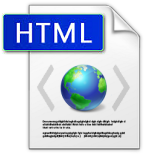
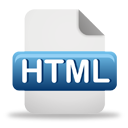
Give consistent look to images

diff --git a/src/test/java/spec/concordion/ext/storyboard/AcceptanceTest.java b/src/test/java/spec/concordion/ext/storyboard/AcceptanceTest.java
@@ -11,6 +11,7 @@ import javax.xml.transform.stream.StreamResult;
 import javax.xml.transform.stream.StreamSource;
 
 import org.concordion.api.Resource;
+import org.concordion.ext.storyboard.StockCardImage;
 import org.concordion.integration.junit4.ConcordionRunner;
 import org.junit.runner.RunWith;
 
@@ -27,20 +28,17 @@ public abstract class AcceptanceTest {
 	}
 	
     protected TestRig getTestRig() throws InstantiationException, IllegalAccessException {
-    	 return new TestRig()
+    	TestRig testrig = new TestRig()
 	        .withFixture(this.getClass().newInstance())
-	        .withResource(new Resource("/org/concordion/ext/storyboard/storyboard.css"), "")
+    	    .withResource(new Resource("/org/concordion/ext/storyboard/storyboard.css"), "")
 	        .withResource(new Resource("/org/concordion/ext/storyboard/storyboard.js"), "")
-	        .withResource(new Resource("/org/concordion/ext/storyboard/email.png"), "")
-	        .withResource(new Resource("/org/concordion/ext/storyboard/html.png"), "")
-	        .withResource(new Resource("/org/concordion/ext/storyboard/text.png"), "")
-	        .withResource(new Resource("/org/concordion/ext/storyboard/xmlrequest.png"), "")
-	        .withResource(new Resource("/org/concordion/ext/storyboard/xmlresponse.png"), "")
-	        .withResource(new Resource("/org/concordion/ext/storyboard/expand.png"), "")
-	        .withResource(new Resource("/org/concordion/ext/storyboard/collapse.png"), "")
-	        .withResource(new Resource("/org/concordion/ext/storyboard/complete.png"), "")
-	        .withResource(new Resource("/org/concordion/ext/storyboard/error.png"), "")
 	        .withOutputStreamer(streamer);
+    	    
+    	for (StockCardImage stockImage : StockCardImage.values()) {
+    		testrig.withResource(new Resource("/org/concordion/ext/storyboard" + stockImage.toString()), "");
+    	}
+    	
+    	return testrig;
     }
     
     protected FileOutputStreamer getStreamer() {

diff --git a/src/main/java/org/concordion/ext/StoryboardExtension.java b/src/main/java/org/concordion/ext/StoryboardExtension.java
@@ -46,12 +46,10 @@ public class StoryboardExtension implements ConcordionExtension {
 
 		concordionExtender.withLinkedCSS(path + "/storyboard.css", new Resource("/storyboard.css"));
 		concordionExtender.withLinkedJavaScript(path + "/storyboard.js", new Resource("/storyboard.js"));
-		concordionExtender.withResource(path + StockCardImage.EMAIL, StockCardImage.EMAIL.getResource());
-		concordionExtender.withResource(path + StockCardImage.HTML, StockCardImage.HTML.getResource());
-		concordionExtender.withResource(path + StockCardImage.TEXT, StockCardImage.TEXT.getResource());		
-		concordionExtender.withResource(path + StockCardImage.XML_REQUEST, StockCardImage.XML_REQUEST.getResource());
-		concordionExtender.withResource(path + StockCardImage.XML_RESPONSE, StockCardImage.XML_RESPONSE.getResource());
-		concordionExtender.withResource(path + StockCardImage.ERROR, StockCardImage.ERROR.getResource());
+		
+		for (StockCardImage stockImage : StockCardImage.values()) {
+			concordionExtender.withResource(path + stockImage.toString(), stockImage.getResource());
+		}
 
 		for (CustomCardImage image : customImages.values()) {
 			concordionExtender.withResource(image.getSourcePath() + image.getFilename(), image.getResource());

diff --git a/src/main/java/org/concordion/ext/storyboard/StockCardImage.java b/src/main/java/org/concordion/ext/storyboard/StockCardImage.java
@@ -6,12 +6,19 @@ import org.concordion.api.Resource;
  * A list of the stock images that can be assigned to a card
  */
 public enum StockCardImage implements CardImage {
-	EMAIL("/email.png"),	
+	CSV("/csv.png"),
+	EMAIL("/email.png"),
+	ERROR("/error.png"),
 	HTML("/html.png"),
-	TEXT("/text.png"),
+	JSON("/json.png"),
+	TEXT("/txt.png"),
+	XML("/xml.png"),
 	XML_REQUEST("/xmlrequest.png"),
 	XML_RESPONSE("/xmlresponse.png"),
-	ERROR("/error.png");
+	
+	HTML_OLD("/html-old.png"),
+	XML_REQUEST_OLD("/xmlrequest-old.png"),
+	XML_RESPONSE_OLD("/xmlresponse-old.png");
 
 	private final String key;
 
